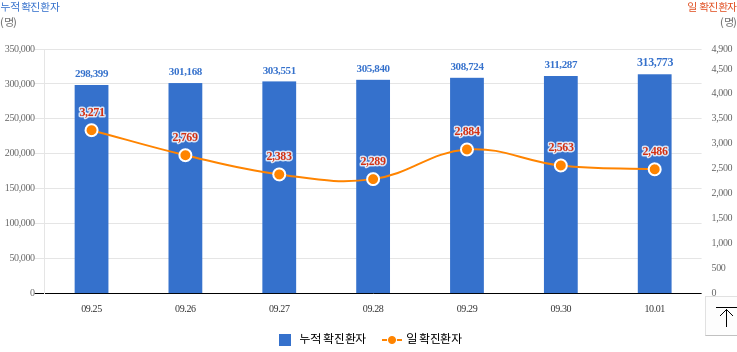
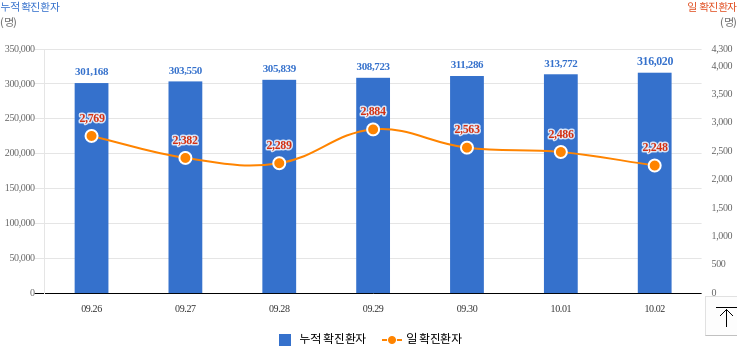
Run crawler and update current data

diff --git a/data.js b/data.js
@@ -7,7 +7,7 @@ var 검사중 = '1,629';
 var 검사결과 = '451,641';
 var 자가격리자 = '387';
 var 거리두기단계 = '사회적 거리두기  3단계 시행 : 2021.9.6.(월) 0시 ~ 10.3.(일) 24시';
-var 국내발생 = '2,451';
-var 해외발생 = '35';
-var 합계 = '2486';
+var 국내발생 = '2,221';
+var 해외발생 = '27';
+var 합계 = '2248';
 var data = [];
